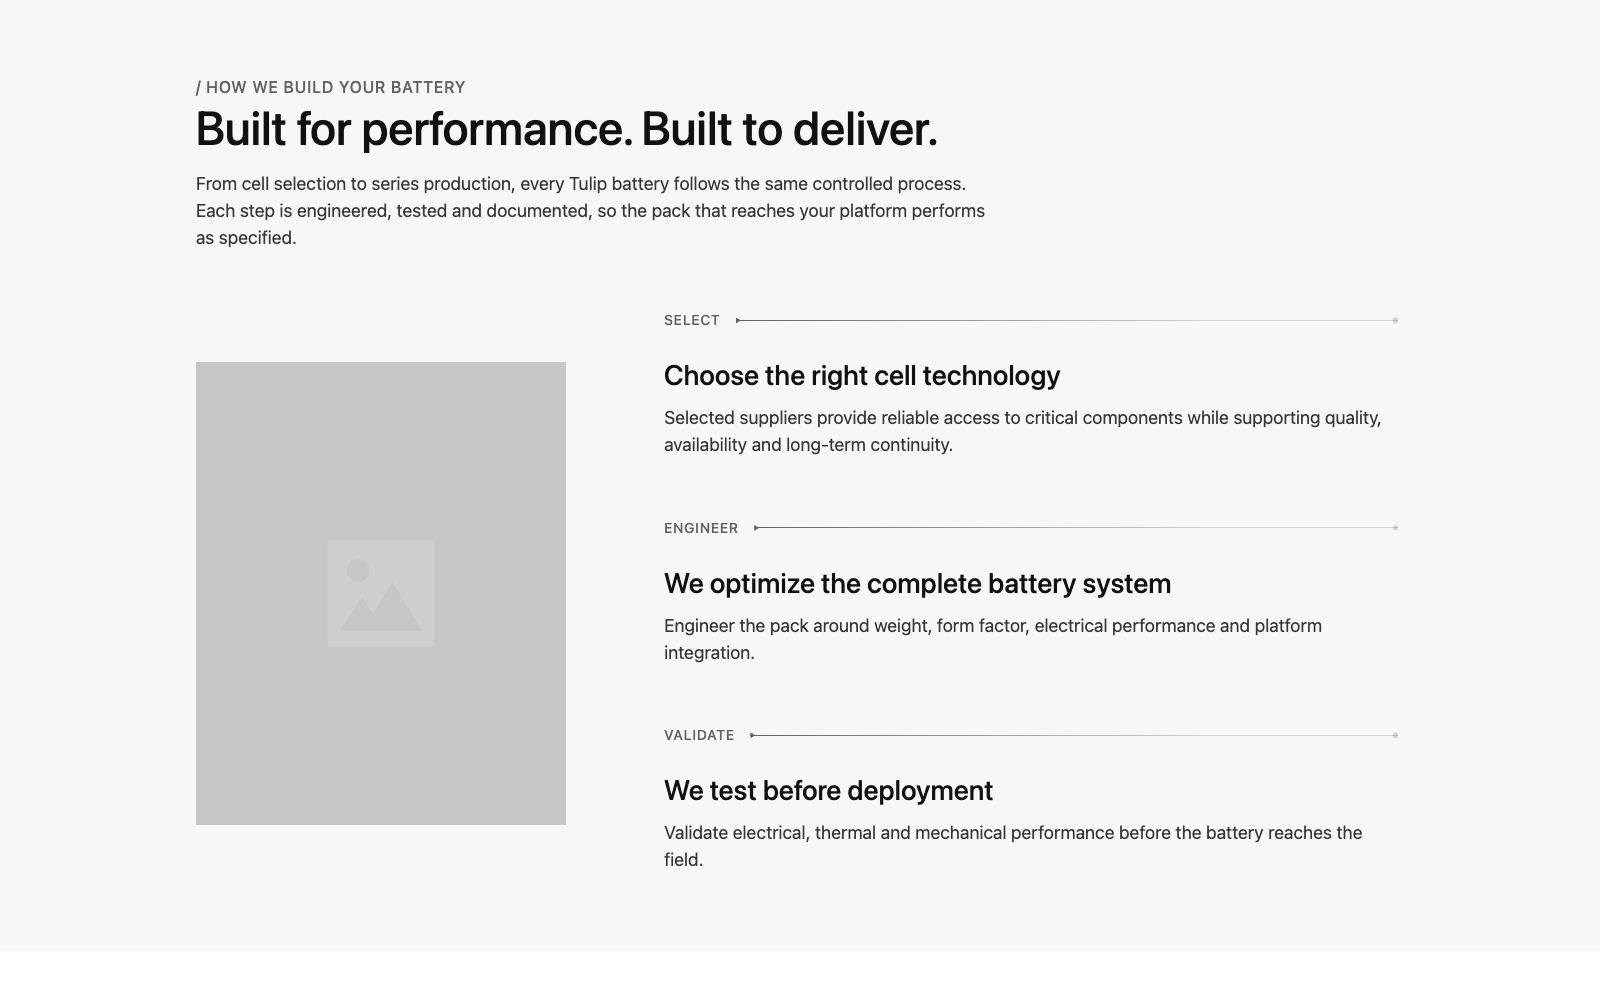
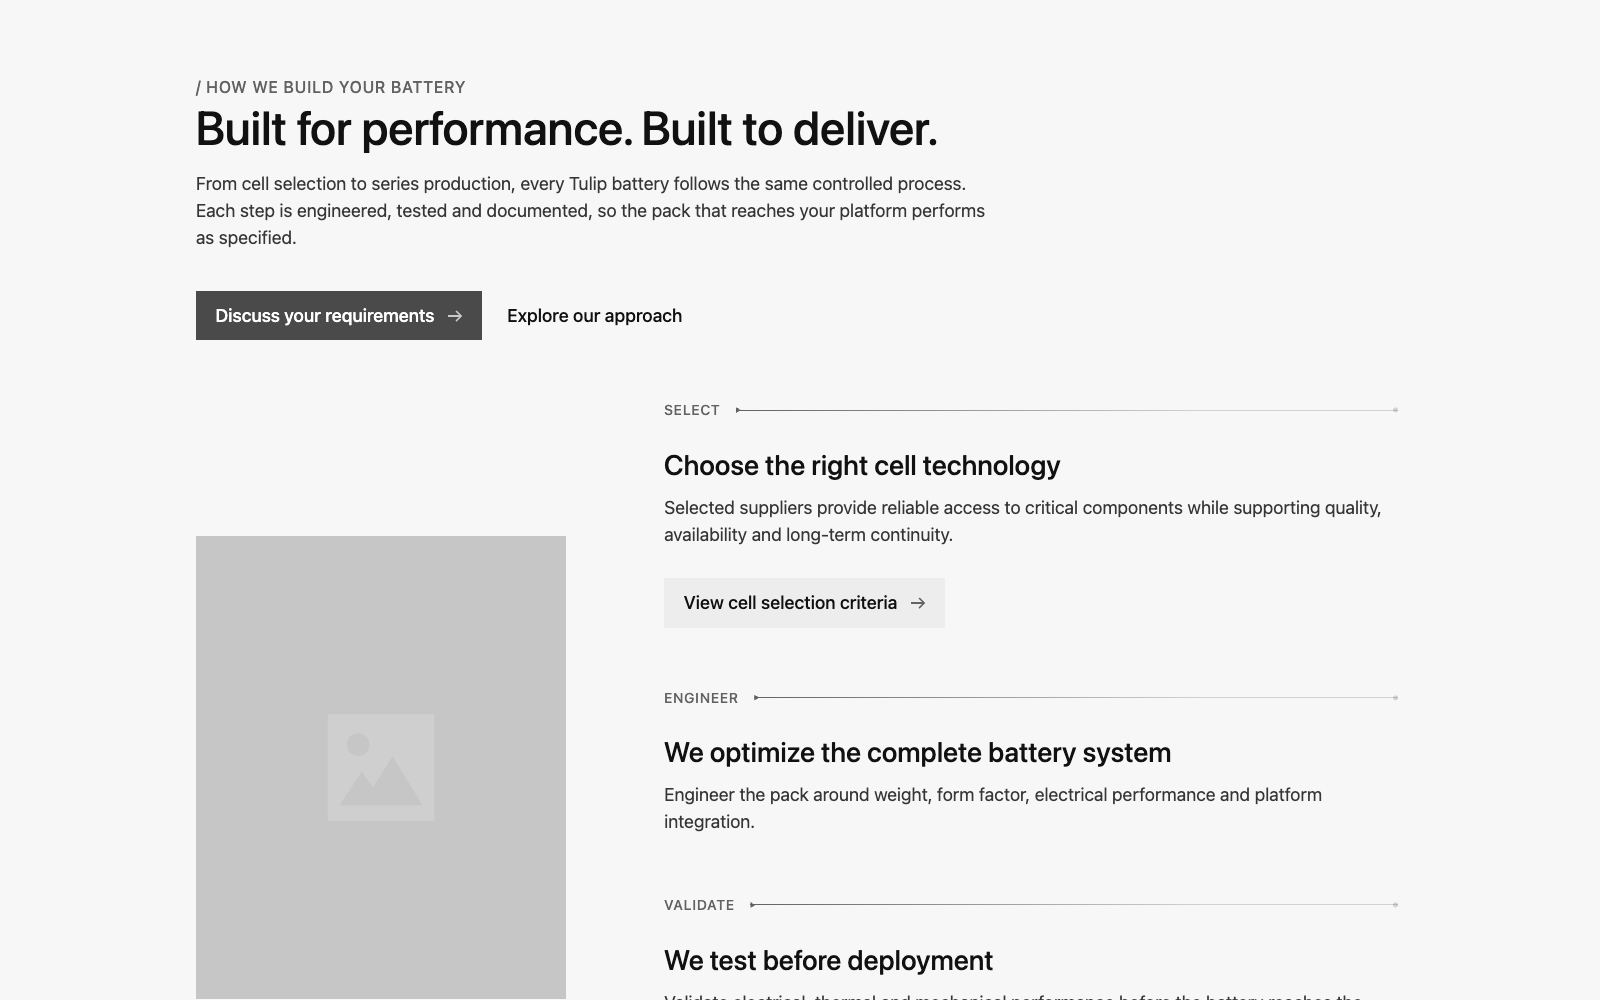
Fix process story timing and CTA groups and stage rich text

diff --git a/src/sections/process-story/allentown/process-story-allentown.payload.ts b/src/sections/process-story/allentown/process-story-allentown.payload.ts
@@ -1,6 +1,7 @@
-// @generated structural section — source manifest remains the contract.
 import type { Block, CollectionSlug } from 'payload'
-import { createManifestBlock, manifestToProps } from '../../../shared/manifest-block.js'
+import { createManifestBlock } from '../../../shared/manifest-block.js'
+import { structuralSectionToProps } from '../../../shared/structural-props.js'
+import type { PayloadAdapterOptions } from '../../../shared/payload.js'
 import type { BetaProcessStoryAllentownContent, PayloadBetaProcessStoryAllentownDocument } from './process-story-allentown.types.js'
 
 const manifest = {
@@ -43,6 +44,23 @@ const manifest = {
         }
       }
     },
+    "introCtaGroup": {
+      "kind": "component",
+      "componentId": "components/cta-group/allentown",
+      "required": false,
+      "localized": true,
+      "description": "Optional primary, secondary or clear actions below the introduction.",
+      "fields": {
+        "buttons": {
+          "kind": "ctaGroup",
+          "required": false,
+          "localized": true,
+          "minItems": 0,
+          "maxItems": 2,
+          "description": "Add zero, one or two actions. Set the style of each action to Primary, Secondary or Clear."
+        }
+      }
+    },
     "image": {
       "kind": "media",
       "required": false,
@@ -69,6 +87,40 @@ const manifest = {
           "kind": "richText",
           "required": true,
           "localized": true
+        },
+        "ctaGroup": {
+          "kind": "component",
+          "componentId": "components/cta-group/allentown",
+          "required": false,
+          "localized": true,
+          "description": "Optional primary, secondary or clear actions below this process item.",
+          "fields": {
+            "buttons": {
+              "kind": "ctaGroup",
+              "required": false,
+              "localized": true,
+              "minItems": 0,
+              "maxItems": 2,
+              "description": "Add zero, one or two actions. Set the style of each action to Primary, Secondary or Clear."
+            }
+          }
+        }
+      }
+    },
+    "listCtaGroup": {
+      "kind": "component",
+      "componentId": "components/cta-group/allentown",
+      "required": false,
+      "localized": true,
+      "description": "Optional primary, secondary or clear actions below the process item list.",
+      "fields": {
+        "buttons": {
+          "kind": "ctaGroup",
+          "required": false,
+          "localized": true,
+          "minItems": 0,
+          "maxItems": 2,
+          "description": "Add zero, one or two actions. Set the style of each action to Primary, Secondary or Clear."
         }
       }
     }
@@ -81,6 +133,6 @@ export function createBetaProcessStoryAllentownBlock(options: CreateBetaProcessS
   return createManifestBlock(manifest, options)
 }
 
-export function betaProcessStoryAllentownToProps(data: PayloadBetaProcessStoryAllentownDocument): BetaProcessStoryAllentownContent {
-  return manifestToProps(data)
+export function betaProcessStoryAllentownToProps(data: PayloadBetaProcessStoryAllentownDocument, options: PayloadAdapterOptions = {}): BetaProcessStoryAllentownContent {
+  return structuralSectionToProps(data, options)
 }

diff --git a/src/shared/structural-props.ts b/src/shared/structural-props.ts
@@ -6,11 +6,16 @@ const isMedia = (value: Record<string, unknown>): boolean => 'url' in value && '
 const isRichText = (value: Record<string, unknown>): boolean => 'root' in value
 
 function adaptValue(value: unknown, field: string, options: PayloadAdapterOptions): unknown {
-  if (Array.isArray(value)) return value.map((item, index) => adaptValue(item, `${field}[${index}]`, options))
+  if (Array.isArray(value)) return value.map((item, index) => adaptValue(item, `${field}[${index}]`, options)).filter((item) => item !== undefined)
   if (!isObjectRecord(value)) return value
   const entries = Object.entries(value)
   if (entries.length === 1 && entries[0][0] === 'value') return adaptValue(entries[0][1], `${field}.value`, options)
-  if ('destinationType' in value || ('label' in value && ('href' in value || 'page' in value))) return optionalCtaToProps(value, field, options)
+  if ('destinationType' in value || ('label' in value && ('href' in value || 'page' in value))) {
+    const cta = optionalCtaToProps(value, field, options)
+    if (!cta) return undefined
+    const style = value.style
+    return style === 'primary' || style === 'secondary' || style === 'clear' ? { ...cta, style } : cta
+  }
   if (isMedia(value)) return mediaToProps(value, field, options)
   if (isRichText(value)) return renderRichText(value, field)
   return Object.fromEntries(Object.entries(value).map(([key, item]) => [key, adaptValue(item, `${field}.${key}`, options)]))

diff --git a/src/sections/steps/stage/steps-stage.payload.ts b/src/sections/steps/stage/steps-stage.payload.ts
@@ -61,7 +61,7 @@ const manifest = {
           "localized": true
         },
         "description": {
-          "kind": "textarea",
+          "kind": "richText",
           "required": true,
           "localized": true
         },

diff --git a/CHANGELOG.md b/CHANGELOG.md
@@ -7,6 +7,7 @@
 - Add prerelease Battery Models Trinity with reusable model cards, editable one-to-five ratings, webshop/specification links, and an optional Callout.
 - Add prerelease Streamer Allentown with the standard Intro and optional zero-to-two CTA Group.
 - Add optional localized results headings to Case Studies slides and editable Problem Solution animation labels; empty labels render no text.
+- Add optional zero-to-two CTA groups below the Process Story Allentown intro, below its item list, and within each item; resolve Content-or-URL targets through the shared adapter.
 
 ### Changed
 
@@ -15,6 +16,7 @@
 - Require a build-only Pro Package Token for dependency installation; keep icon fonts and credentials out of browser output.
 - Use rich-text description fields throughout sections and reusable content blocks, preserving paragraph, list, emphasis, and safe link formatting in Astro.
 - Use shared capped flightpaths for Case Studies and both Featured Insights headers.
+- Use theme-aware accent colors for Process Story Trinity numbers and SVG icons; only numbered markers inherit the monospace font token.
 
 ### Fixed
 
@@ -24,6 +26,8 @@
 - Accept empty optional Case Studies results and quotes without an author name. Author role and avatar require a name, and author details require quote text.
 - Validate partial CTA and quote input before publication while allowing incomplete drafts. Keep empty CTA groups optional, normalize numeric content IDs, and accept an unset CTA icon.
 - Omit incomplete optional CTAs during frontend conversion, including nested callouts, without dropping their section or page. Keep publish-time validation, required CTA validation and URL safety checks intact.
+- Synchronize Process Story Trinity progression with its six-second linear timer fill. Hover and offscreen pauses preserve elapsed progress; clicking stops autoplay and fills the selected timer.
+- Expose Steps Stage item descriptions as native Payload rich text instead of textareas, matching the existing rich-text renderer and stored editor data.
 - Correct the Product Hero Allentown design reference to [Hero Section - Battery Packs](https://www.figma.com/design/7rHrxb3twyBvPo9QxkOBly/KSW-1-Tulip-Tech-Website?node-id=5255-538028&t=OtYEVTRRdAJJYQ0v-11); content fields and rendering are unchanged.
 
 ## 26.10.2-beta.25 — 2026-10-23
